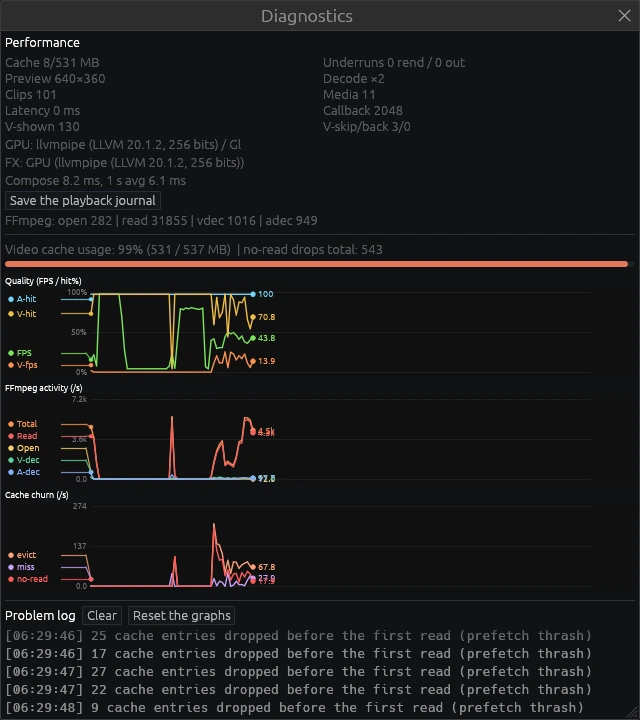
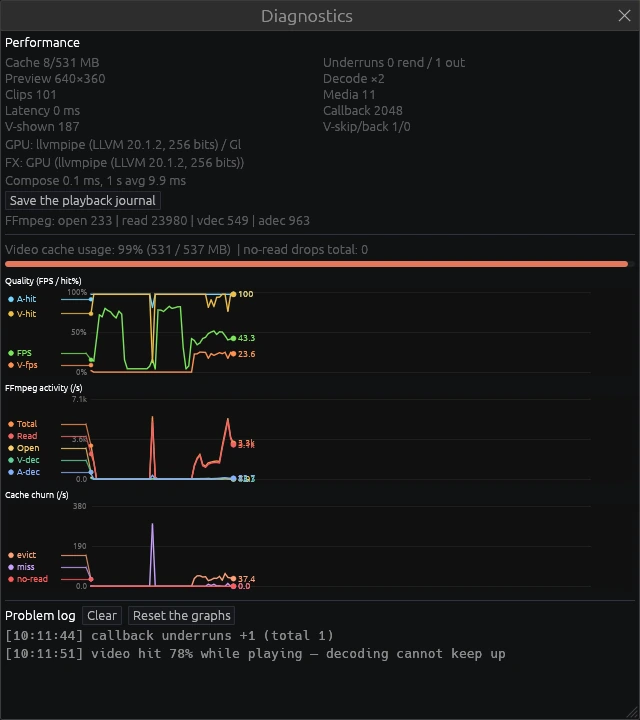
video-prefetch-thrash 3.2: the README diagnostics image re-taken on the release build — no-read drops 0

diff --git a/openspec/changes/video-prefetch-thrash/tasks.md b/openspec/changes/video-prefetch-thrash/tasks.md
@@ -28,6 +28,17 @@ Test numbers t1416–t1418 (with t1416b, t1417b, t1418b) are used by this change
 
 ## 3. Close
 
-- [ ] 3.1 Crate CLAUDE.md lines, What's new, `cargo test --workspace`, clippy
-- [ ] 3.2 The README diagnostics image re-taken on the release build, looked at
+- [x] 3.1 Crate CLAUDE.md lines, What's new, `cargo test --workspace`, clippy
+  - Done. kt-cache 11, kt-engine all green, clippy clean on the touched crates; the workspace runs
+    in finish.sh
+- [x] 3.2 The README diagnostics image re-taken on the release build, looked at
+  - Done in five takes. The full `readme-shots.py` run failed twice at the hero step's first
+    frame and once at its warm-up under load 40–111 from parallel sessions (the old binary
+    behaves the same under load), so the image was taken by the pipeline's own `perf()` step
+    alone (a scratch driver around `readme_shots.Shooter`, the crop of `publish`), gated on a
+    load under 12–16. Take 1 (fix 2.1–2.3): no-read drops 59, V-fps 25.7 (before: 543, 13.9) →
+    task 2.4. Take 2: 164 → the eviction log of 2.5. Take 4 (2.5): 0, with three 9–13 s UI
+    stalls at load 15–20 that the next take at load 6.7 did not repeat. The committed take:
+    "no-read drops total: 0", no thrash in the problem log; it keeps one callback underrun and
+    "video hit 78 % — decoding cannot keep up" (4K at decode ×2 on llvmpipe), which are true
 - [ ] 3.3 Archive (spec merged), `./scripts/finish.sh`, the version in the report
